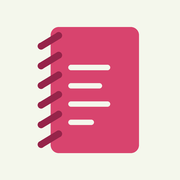
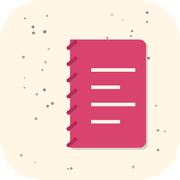
Add files via upload

diff --git a/index.html b/index.html
@@ -3,7 +3,7 @@
 <head>
 <meta charset="UTF-8">
 <meta name="viewport" content="width=device-width, initial-scale=1.0, maximum-scale=1.0">
-<meta name="theme-color" content="#F4F7EC">
+<meta name="theme-color" content="#FFFBF3">
 <title>Carnet de recettes</title>
 <meta name="mobile-web-app-capable" content="yes">
 <meta name="apple-mobile-web-app-capable" content="yes">
@@ -17,18 +17,33 @@
 @import url('https://fonts.googleapis.com/css2?family=Fraunces:opsz,wght@9..144,500;9..144,600;9..144,700&family=Work+Sans:wght@400;500;600&family=IBM+Plex+Mono:wght@500;600&display=swap');
 
 :root{
-  --bg:#F4F7EC; --surface:#FFFFFF; --card:#FFFFFF; --card-hi:#E7EFD8;
+  --bg:#FFFBF3; --surface:#FFFFFF; --card:#FFFFFF; --card-hi:#FFF6E6;
   --accent:#D8446E; --accent-ink:#FFFFFF;
   --rose:#B32E58;
-  --text:#33362C; --muted:#8A9179; --border:rgba(51,54,44,0.14);
+  --text:#3A362C; --muted:#A89A82; --border:rgba(58,54,44,0.13);
   --r:16px; --success:#4C9A6A;
 }
 *{box-sizing:border-box;margin:0;padding:0;-webkit-tap-highlight-color:transparent}
-body{font-family:'Work Sans',sans-serif;background:var(--bg);color:var(--text);min-height:100vh;overflow-x:hidden}
+body{font-family:'Work Sans',sans-serif;background-color:var(--bg);color:var(--text);min-height:100vh;overflow-x:hidden;
+  background-image:
+    radial-gradient(circle at 12% 18%, rgba(58,54,44,0.16) 0 1.3px, transparent 1.4px),
+    radial-gradient(circle at 78% 8%, rgba(58,54,44,0.13) 0 1px, transparent 1.1px),
+    radial-gradient(circle at 45% 32%, rgba(58,54,44,0.15) 0 1.2px, transparent 1.3px),
+    radial-gradient(circle at 88% 55%, rgba(58,54,44,0.12) 0 1px, transparent 1.1px),
+    radial-gradient(circle at 25% 68%, rgba(58,54,44,0.14) 0 1.1px, transparent 1.2px),
+    radial-gradient(circle at 62% 82%, rgba(58,54,44,0.13) 0 1px, transparent 1.1px),
+    radial-gradient(circle at 8% 90%, rgba(58,54,44,0.15) 0 1.2px, transparent 1.3px),
+    radial-gradient(circle at 95% 92%, rgba(58,54,44,0.11) 0 1px, transparent 1.1px),
+    radial-gradient(circle at 55% 5%, rgba(58,54,44,0.10) 0 0.9px, transparent 1px),
+    radial-gradient(circle at 33% 48%, rgba(58,54,44,0.11) 0 0.9px, transparent 1px);
+  background-size:220px 220px;
+  background-repeat:repeat;
+  background-attachment:fixed;
+}
 h1,h2,h3,.serif{font-family:'Fraunces',serif}
 .mono{font-family:'IBM Plex Mono',monospace}
 
-#app-header{position:fixed;top:0;left:0;right:0;z-index:100;background:rgba(244,247,236,0.92);backdrop-filter:blur(12px);border-bottom:1px solid var(--border);padding:14px 18px;display:flex;align-items:center;justify-content:space-between}
+#app-header{position:fixed;top:0;left:0;right:0;z-index:100;background:rgba(255,251,243,0.92);backdrop-filter:blur(12px);border-bottom:1px solid var(--border);padding:14px 18px;display:flex;align-items:center;justify-content:space-between}
 .logo{font-family:'Fraunces',serif;font-weight:700;font-size:1.3rem;color:var(--accent);display:flex;align-items:baseline;gap:6px}
 .logo span{color:var(--text);font-weight:500;font-size:0.95rem}
 
@@ -66,7 +81,7 @@ h1,h2,h3,.serif{font-family:'Fraunces',serif}
 
 .overlay{position:fixed;top:0;left:0;right:0;bottom:0;z-index:200;background:var(--bg);overflow-y:auto;display:none;flex-direction:column}
 .overlay.open{display:flex}
-.overlay-header{position:sticky;top:0;z-index:10;background:rgba(244,247,236,0.95);backdrop-filter:blur(12px);padding:14px 16px;border-bottom:1px solid var(--border);display:flex;align-items:center;gap:12px;flex-shrink:0}
+.overlay-header{position:sticky;top:0;z-index:10;background:rgba(255,251,243,0.95);backdrop-filter:blur(12px);padding:14px 16px;border-bottom:1px solid var(--border);display:flex;align-items:center;gap:12px;flex-shrink:0}
 .overlay-header h2{font-family:'Fraunces',serif;font-size:1.1rem;flex:1;font-weight:600}
 .back-btn{width:36px;height:36px;border-radius:50%;border:1px solid var(--border);background:none;color:var(--text);cursor:pointer;display:flex;align-items:center;justify-content:center;font-size:1.3rem;flex-shrink:0}
 .overlay-body{padding:18px 16px 60px;flex:1;max-width:720px;margin:0 auto;width:100%}
@@ -114,7 +129,7 @@ h1,h2,h3,.serif{font-family:'Fraunces',serif}
 .barre-edition{display:flex;gap:8px;align-items:center;flex-wrap:wrap;background:var(--card-hi);
   border:1px solid var(--border);border-radius:12px;padding:9px 12px;margin-bottom:12px;font-size:0.78rem}
 .barre-edition .info{color:var(--muted);flex:1;min-width:150px}
-#boite-editeur{position:fixed;inset:0;z-index:400;display:none;align-items:flex-end;background:rgba(51,54,44,.35)}
+#boite-editeur{position:fixed;inset:0;z-index:400;display:none;align-items:flex-end;background:rgba(58,54,44,.35)}
 #boite-editeur.ouvert{display:flex}
 #boite-editeur .feuille{background:var(--surface);width:100%;max-width:520px;margin:0 auto;
   border-radius:18px 18px 0 0;padding:18px 16px 24px;max-height:88vh;overflow-y:auto}
@@ -520,9 +535,28 @@ let editingPhoto = null;
 
 function toast(msg){ const t=document.getElementById('toast'); t.textContent=msg; t.classList.add('show'); setTimeout(()=>t.classList.remove('show'),2200); }
 function esc(s){ return (s||'').replace(/&/g,'&amp;').replace(/</g,'&lt;').replace(/>/g,'&gt;').replace(/"/g,'&quot;'); }
-function openOverlay(id){ document.getElementById(id).classList.add('open'); }
+let historyPushed = false;
+let inPopState = false;
+function openOverlay(id){
+  document.getElementById(id).classList.add('open');
+  if(!historyPushed){
+    history.pushState({carnetOverlay:true}, '', location.href);
+    historyPushed = true;
+  }
+}
 function closeOverlay(id){ document.getElementById(id).classList.remove('open'); }
-window.closeAllOverlays=function(){ closeOverlay('detail-overlay'); closeOverlay('edit-overlay'); closeOverlay('settings-overlay'); closeOverlay('shop-overlay'); closeOverlay('add-overlay'); closeOverlay('import-overlay'); };
+window.closeAllOverlays=function(){
+  closeOverlay('detail-overlay'); closeOverlay('edit-overlay'); closeOverlay('settings-overlay'); closeOverlay('shop-overlay'); closeOverlay('add-overlay'); closeOverlay('import-overlay');
+  if(historyPushed){
+    historyPushed = false;
+    if(!inPopState) history.back();
+  }
+};
+window.addEventListener('popstate', ()=>{
+  inPopState = true;
+  window.closeAllOverlays();
+  inPopState = false;
+});
 
 // ── LOAD ──
 async function loadRecipes(){
@@ -627,6 +661,15 @@ function scaleIngredient(str, ratio){
   const protect = [];
   const toLetters = n => { n++; let s=''; while(n>0){ n--; s=String.fromCharCode(97+(n%26))+s; n=Math.floor(n/26); } return s; };
   let s = str;
+  // Traiter d'abord les fractions (ex. "1/2") comme UNE seule valeur à recalculer,
+  // pour éviter de multiplier séparément le numérateur et le dénominateur.
+  s = s.replace(/\b(\d+)\/(\d+)\b/g, (m, num, den)=>{
+    const val = (parseFloat(num)/parseFloat(den)) * ratio;
+    const v = Math.round(val*100)/100;
+    const formatted = (v % 1 === 0) ? String(v) : String(v).replace('.', ',');
+    protect.push(formatted);
+    return `\u0000${toLetters(protect.length-1)}\u0000`;
+  });
   const nonScalablePatterns = [
     /\d+([.,]\d+)?\s?°C/g,
     /\d+([.,]\d+)?\s?°/g,
@@ -981,13 +1024,13 @@ window.saveSettings=function(){
   if(!owner||!repo||!token){ toast('⚠ Merci de remplir les 3 champs'); return; }
   localStorage.setItem('gh-config', JSON.stringify({owner,repo,token}));
   toast('✓ Réglages enregistrés sur cet appareil');
-  closeOverlay('settings-overlay');
+  closeAllOverlays();
 };
 window.clearSettings=function(){
   if(!confirm('Effacer le jeton GitHub enregistré sur cet appareil ?')) return;
   localStorage.removeItem('gh-config');
   toast('Réglages effacés');
-  closeOverlay('settings-overlay');
+  closeAllOverlays();
 };
 window.wipeAllRecipes=function(){
   if(!confirm(`Effacer les ${recipes.length} recettes de cet appareil ? Le fichier recipes-seed.js de votre dépôt GitHub n'est pas touché : vous pourrez le recharger ensuite.`)) return;
@@ -1923,7 +1966,7 @@ window.deleteRecipe=function(id){
   if(!confirm('Supprimer cette recette définitivement ?')) return;
   recipes = recipes.filter(r=>r.id!==id);
   sauver(true);
-  closeOverlay('detail-overlay');
+  closeAllOverlays();
   toast('Recette supprimée');
   renderCategories(); renderList();
 };
@@ -2473,7 +2516,7 @@ window.saveRecipe=async function(){
   }
   editModifie = false;
   sauver(true);
-  closeOverlay('edit-overlay');
+  closeAllOverlays();
   toast('✓ Recette enregistrée');
   renderCategories(); renderList();
 };
